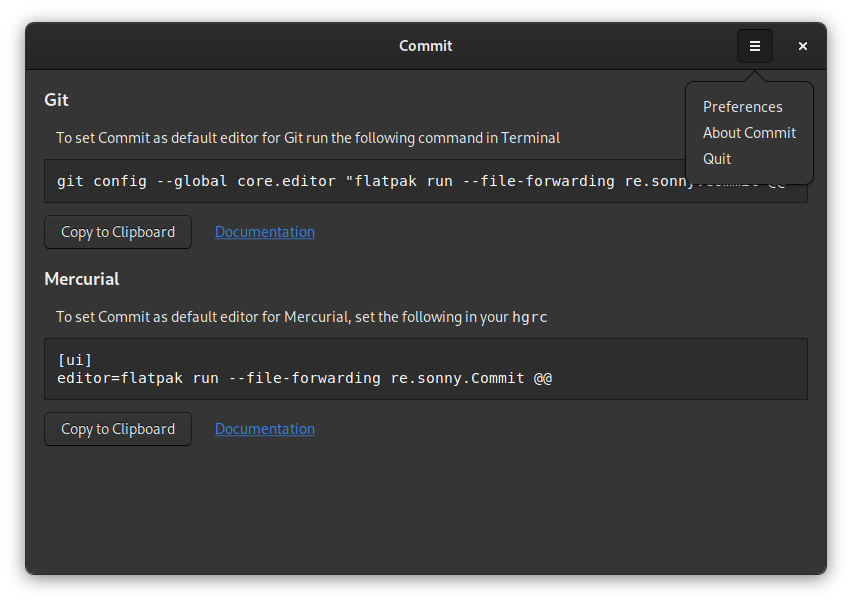
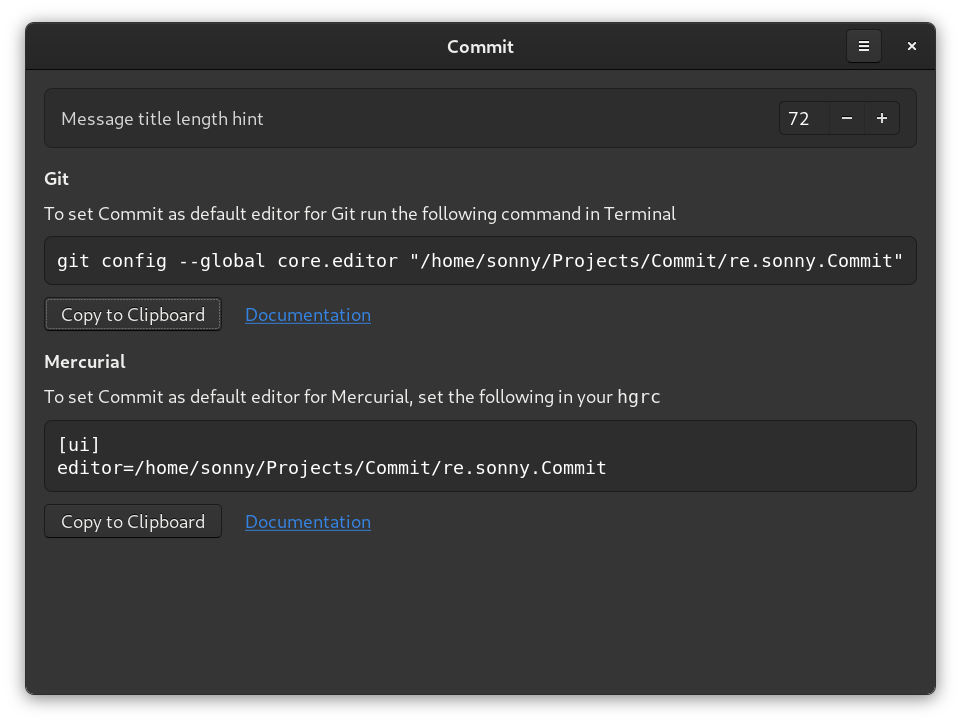
Move settings to welcome window

diff --git a/src/welcome.js b/src/welcome.js
@@ -2,15 +2,27 @@ import Gtk from "gi://Gtk";
 import Gdk from "gi://Gdk";
 import system from "system";
 import GLib from "gi://GLib";
+import Gio from "gi://Gio";
 
+import settings from "./settings.js";
 import { relativePath, loadStyleSheet } from "./util.js";
 
 export default function Welcome({ application }) {
   const builder = Gtk.Builder.new_from_file(relativePath("./welcome.ui"));
 
-  const Clipboard = Gtk.Clipboard.get_default(Gdk.Display.get_default());
-
   loadStyleSheet(relativePath("./application.css"));
+
+  const spinButton = builder.get_object("spinButton");
+  spinButton.set_range(50, 200);
+  spinButton.set_increments(1, 10);
+  settings.bind(
+    "title-length-hint",
+    spinButton,
+    "value",
+    Gio.SettingsBindFlags.DEFAULT,
+  );
+
+  const Clipboard = Gtk.Clipboard.get_default(Gdk.Display.get_default());
 
   const window = builder.get_object("window");
   window.set_application(application);

diff --git a/src/application.js b/src/application.js
@@ -7,7 +7,6 @@ import Welcome from "./welcome.js";
 import validateCommitButton from "./validateCommitButton.js";
 import { getType, parse } from "./scm.js";
 import About from "./about.js";
-import Preferences from "./Preferences.js";
 
 const ByteArray = imports.byteArray;
 
@@ -52,15 +51,6 @@ export default function Application({ version }) {
     About({ application, version });
   });
   application.add_action(showAboutDialog);
-
-  const showPrefencesWindow = new Gio.SimpleAction({
-    name: "preferences",
-    parameter_type: null,
-  });
-  showPrefencesWindow.connect("activate", () => {
-    Preferences({ application });
-  });
-  application.add_action(showPrefencesWindow);
 
   return application;
 }

diff --git a/src/application.css b/src/application.css
@@ -1,4 +1,5 @@
 .code {
   padding: 12px;
   border: solid 1px @borders;
+  border-radius: 8px;
 }

diff --git a/TODO.md b/TODO.md
@@ -15,3 +15,5 @@
 12. [ ] gnome circle https://gitlab.gnome.org/Teams/Circle/-/issues/83
 13. [ ] awesome-gnome
 14. [ ] max length 72 (github/gitlab wraps)
+15. [ ] Auto capitalize first letter
+16. [ ] detect non imperative mood
